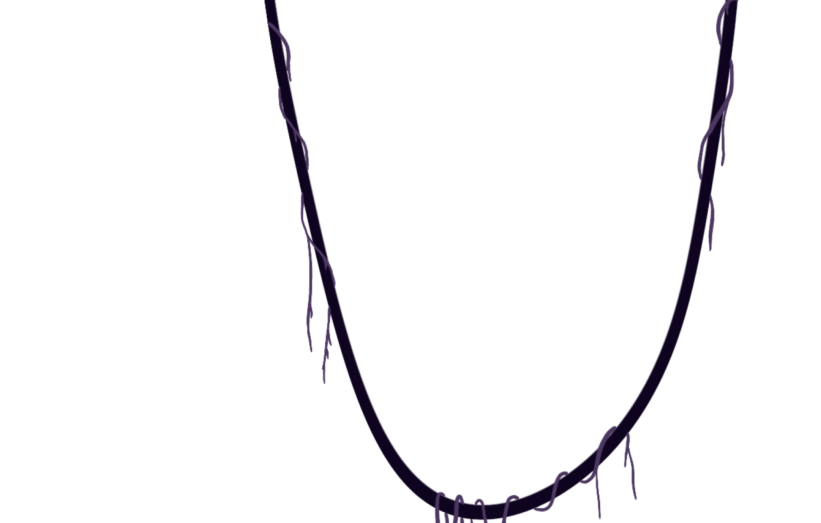
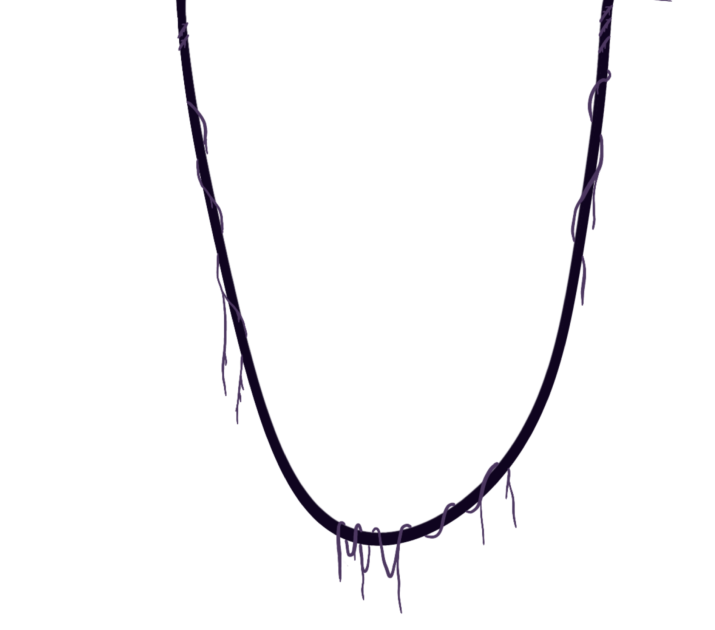
update pixcel perfect with Detail view

Changed region(s): [[0.2462, 0.0, 0.9231, 1.0], [0.7692, 0.8872, 0.8, 0.9484]]

diff --git a/src/views/DetailView.js b/src/views/DetailView.js
@@ -12,14 +12,14 @@ const DetailView = () => {
 			<div className="bg-white mx-auto relative overflow-hidden h-screen hidden xl:block">
 				<div className="container mx-auto flex flex-col xl:flex-row md:h-screen h-[974px]" >
 					<div className="flex-1 relative overflow-hidden h-screen">
-						<div className='absolute left-[20px] xl:left-[124px]  top-[87px] w-[403px] text-left z-10 text-center'>
-							<p className='uppercase font-bold text-black text-[45px] leading-[34px]'>BONDING CURVE</p>
-							<p className='w-[80%] ml-[38px] mt-[13px] font-normal font-medium text-[20px] leading-[34px]'>Self-regulating mechanism for autonomous vault rebalancing to ensure price stability. Adjusts token supply in response to changes in protocol demand to accurately reflect token utility.</p>
+						<div className='absolute left-[20px] xl:left-[124px]  top-[60px] w-[403px] text-left z-10 text-center'>
+							<p className='uppercase font-bold text-black text-[45px] leading-[34px] ml-[30px]'>BONDING CURVE</p>
+							<p className='w-[365px] ml-[38px] mt-[40px] font-normal font-medium text-[20px] leading-[34px] h-[187px]'>Self-regulating mechanism for autonomous vault rebalancing to ensure price stability. Adjusts token supply in response to changes in protocol demand to accurately reflect token utility.</p>
 
-							<button className="bg-[#1A1A1A] w-[105px] h-[32px] rounded-[15px] leading-[34px] text-[12px] text-center uppercase text-white mx-auto flex justify-center font-bold items-center">LEARN MORE</button>
+							<button className="bg-[#1A1A1A] w-[105px] rounded-[15px] leading-[34px] text-[12px] text-center uppercase text-white ml-[160px] flex justify-center font-bold items-center mt-[4px]">LEARN MORE</button>
 						</div>
 
-						<div className="left-[20px] top-0 absolute w-[620px] hidden xl:block">
+						<div className="left-[30px] top-0 absolute w-[620px] hidden xl:block">
 							<img src={vines_left} alt=''></img>
 						</div>
 
@@ -29,15 +29,15 @@ const DetailView = () => {
 					</div>
 
 					<div className="flex-1 relative overflow-hidden h-screen">
-						<div className='absolute right-0 xl:right-[107px] top-0 xl:top-[95px] w-[383px] z-10 text-center'>
+						<div className='absolute right-0 xl:right-[127px] top-0 xl:top-[57px] w-[383px] z-10 text-center'>
 							<p className='uppercase font-bold text-black text-[45px] leading-[34px]'>PRICING NETWORK</p>
-							<p className='w-[365px] ml-[15px] mt-[19px] font-normal font-medium text-[20px] leading-[34px]'>Node operators creating consensus for on-chain pricing data for use by the community.</p>
+							<p className='w-[365px] h-[120px] mt-[41px] font-normal font-medium text-[20px] leading-[34px] h-[120px]'>Node operators creating consensus for on-chain pricing data for use by the community.</p>
 
-							<button className="bg-[#1A1A1A] w-[105px] h-[32px] rounded-[15px] leading-[34px] text-[12px] text-center uppercase text-white mx-auto flex justify-center mt-[19px] font-bold items-center">LEARN MORE</button>
+							<button className="bg-[#1A1A1A] w-[105px] h-[32px] rounded-[15px] leading-[34px] text-[12px] text-center uppercase text-white mx-auto flex justify-center mt-[32px] font-bold items-center">LEARN MORE</button>
 
 						</div>
 
-						<div className="right-[-188px] top-0 absolute w-[1009px] hidden xl:block">
+						<div className="right-[-78px] top-0 absolute w-[797px] h-[630px] hidden xl:block">
 							<img src={vines_right} alt=''></img>
 						</div>
 					</div>
@@ -56,7 +56,7 @@ const DetailView = () => {
 				<div className="overflow-hidden h-[700px]">
 					<div className='mt-[137px] w-[403px] text-left z-10 text-center relative'>
 						<p className='uppercase font-bold text-black text-[45px] leading-[34px] text-left'>BONDING CURVE</p>
-						<p className='w-[80%] ml-[38px] mt-[13px] font-normal font-medium text-[20px] leading-[34px] text-left ml-[20px]'>Self-regulating mechanism for autonomous vault rebalancing to ensure price stability. Adjusts token supply in response to changes in protocol demand to accurately reflect token utility.</p>
+						<p className='w-[365px] h-[187px] mt-[13px] font-normal font-medium text-[20px] leading-[34px] text-left'>Self-regulating mechanism for autonomous vault rebalancing to ensure price stability. Adjusts token supply in response to changes in protocol demand to accurately reflect token utility.</p>
 
 						<button className="bg-[#1A1A1A] w-[105px] h-[32px] rounded-[15px] leading-[34px] text-[12px] text-center uppercase text-white mx-auto flex justify-center font-bold items-center">LEARN MORE</button>
 
@@ -69,14 +69,14 @@ const DetailView = () => {
 
 			<div className='block xl:hidden bg-white flex justify-center'>
 				<div className="overflow-hidden">
-					<div className='mt-[137px] w-[403px] text-left z-10 text-center relative h-[560px]'>
+					<div className='mt-[137px] w-[403px] text-left z-10 text-center relative h-[560px] ml-[12px]'>
 						<p className='uppercase font-bold text-black text-[45px] leading-[34px] text-left'>PRICING NETWORK</p>
-						<p className='w-[365px] ml-[15px] mt-[19px] font-normal font-medium text-[20px] leading-[34px] text-left ml-[20px]'>Node operators creating consensus for on-chain pricing data for use by the community.</p>
+						<p className='w-[365px] h-[120px] mt-[19px] font-normal font-medium text-[20px] leading-[34px] text-left'>Node operators creating consensus for on-chain pricing data for use by the community.</p>
 
-						<button className="bg-[#1A1A1A] w-[105px] h-[32px] rounded-[15px] leading-[34px] text-[12px] text-center uppercase text-white mx-auto flex justify-center mt-[39px] ml-[60px] font-bold items-center">LEARN MORE</button>
+						<button className="bg-[#1A1A1A] w-[105px] h-[32px] rounded-[15px] leading-[34px] text-[12px] text-center uppercase text-white ml-[130px] flex justify-center mt-[19px] font-bold items-center">LEARN MORE</button>
 					
 						
-						<div className="right-[-100px] bottom-[0p2x] absolute w-[543px]">
+						<div className="right-[-156px] bottom-[-10px] absolute w-[543px] h-[440px]">
 							<img src={trees_bottom} alt=''></img>
 						</div>
 					</div>

diff --git a/src/components/AssetsItem.js b/src/components/AssetsItem.js
@@ -105,7 +105,7 @@ const AssetsItem = (props) => {
 							props.name == "forex" && (
 								<div>
 									<p className="uppercase leading-[34px] font-bold text-[14px] mb-4">CHG</p>
-						2			<p className="leading-[34px] text-[14px] mb-1" style={props.data[0] != undefined &&  parseFloat(props.data[0]["changes_24hrs"]) >= 0 ? {color: '#00FF29'}: {color: '#FF0000'}}>{props.data[0] != undefined ? parseFloat(props.data[0]["changes_24hrs"]).toFixed(2) : 0}</p>
+									<p className="leading-[34px] text-[14px] mb-1" style={props.data[0] != undefined &&  parseFloat(props.data[0]["changes_24hrs"]) >= 0 ? {color: '#00FF29'}: {color: '#FF0000'}}>{props.data[0] != undefined ? parseFloat(props.data[0]["changes_24hrs"]).toFixed(2) : 0}</p>
 									<p className="leading-[34px] text-[14px] mb-1" style={props.data[1] != undefined &&  parseFloat(props.data[1]["changes_24hrs"]) >= 0 ? {color: '#00FF29'}: {color: '#FF0000'}}>{props.data[1] != undefined ? parseFloat(props.data[1]["changes_24hrs"]).toFixed(2) : 0}</p>
 									<p className="leading-[34px] text-[14px] mb-1" style={props.data[2] != undefined &&  parseFloat(props.data[2]["changes_24hrs"]) >= 0 ? {color: '#00FF29'}: {color: '#FF0000'}}>{props.data[2] != undefined ? parseFloat(props.data[2]["changes_24hrs"].toFixed(2)) : 0}</p>
 									<p className="leading-[34px] text-[14px] mb-1" style={props.data[3] != undefined &&  parseFloat(props.data[3]["changes_24hrs"]) >= 0 ? {color: '#00FF29'}: {color: '#FF0000'}}>{props.data[3] != undefined ? parseFloat(props.data[3]["changes_24hrs"].toFixed(2)) : 0}</p>
